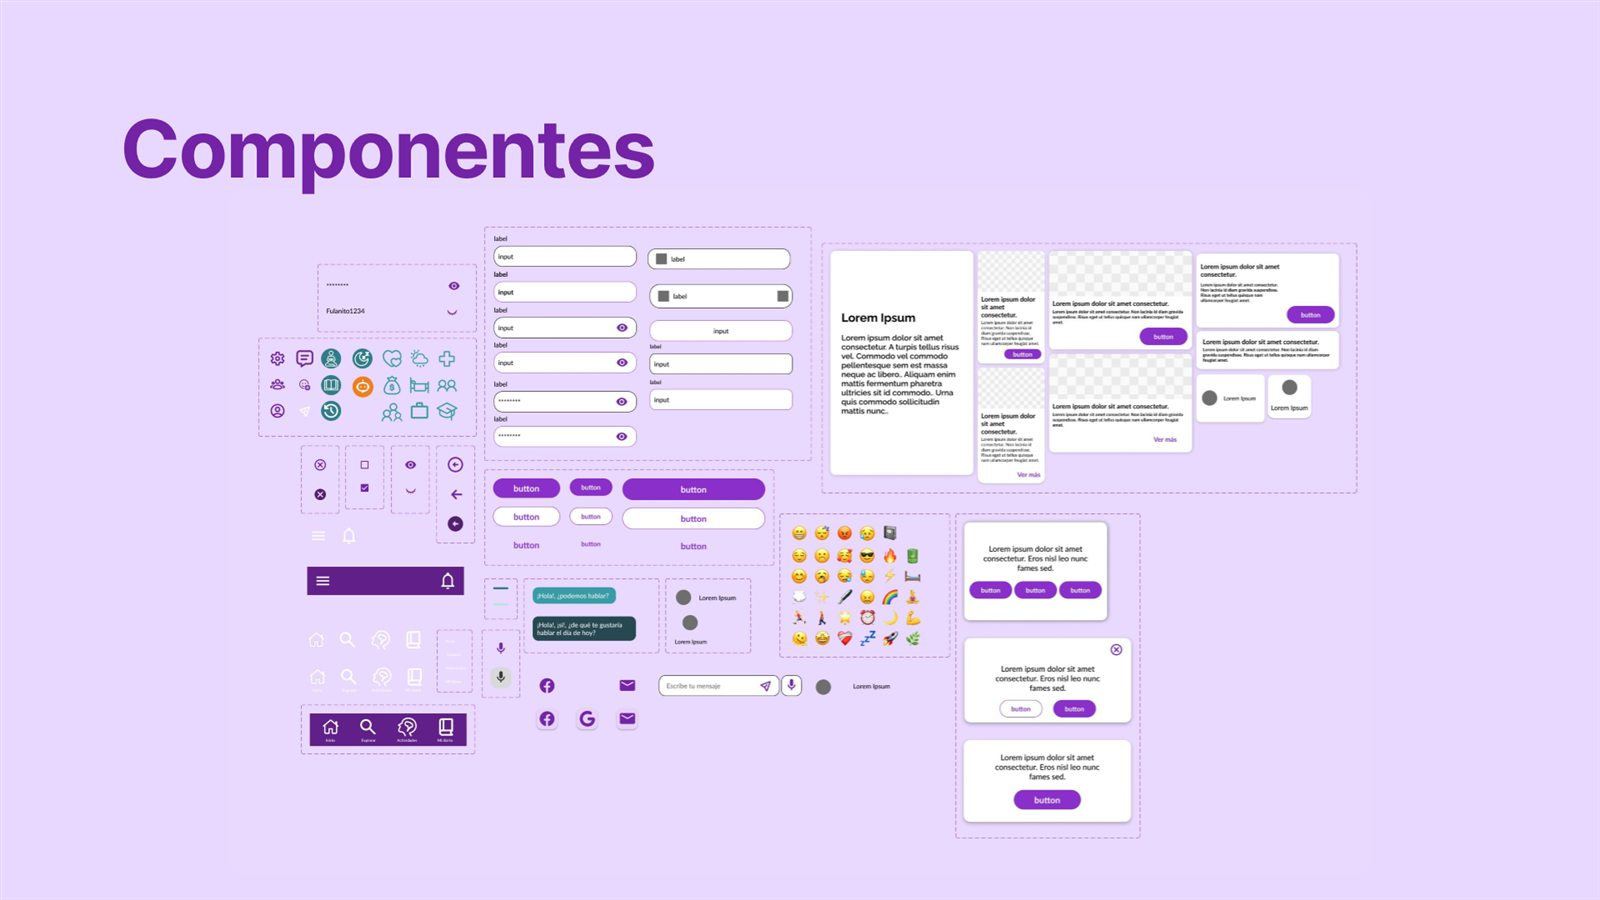
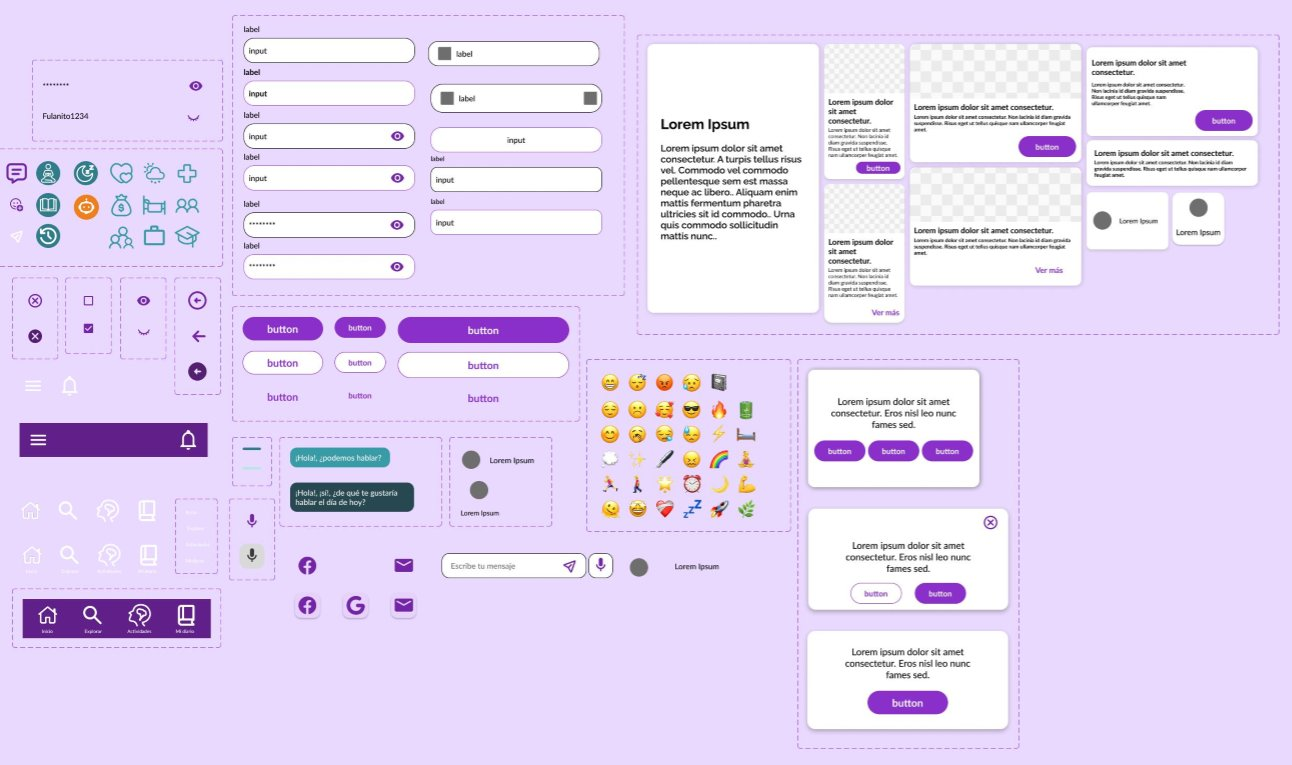
Calmi: consigna, recortes de slides y cierre con el prototipo
- Contexto: suma la consigna del curso antes del problema, el objetivo y la solución.
- Datos: "Proyecto académico" y "Plataforma: Aplicación móvil" en lugar de los entregables.
- Recorta 9 slides a su contenido visual, sin títulos de diapositiva.
- Task flow y user flow a todo el ancho; moodboard y test A/B centrados y más chicos.
- Cierre con el bloque "Recorré la app" y el botón "Probar el prototipo".

diff --git a/proyectos/calmi.html b/proyectos/calmi.html
@@ -84,11 +84,11 @@
 
             <dl class="case-facts">
               <div><dt class="mono">Rol</dt><dd>UX/UI Designer, con foco en UI y prototipado</dd></div>
-              <div><dt class="mono">Tipo</dt><dd>Proyecto académico individual</dd></div>
+              <div><dt class="mono">Tipo</dt><dd>Proyecto académico</dd></div>
               <div><dt class="mono">Curso</dt><dd>Prototipado · Coderhouse</dd></div>
               <div><dt class="mono">Año</dt><dd>2025</dd></div>
               <div><dt class="mono">Herramientas</dt><dd>Figma, Illustrator, IA de imágenes</dd></div>
-              <div><dt class="mono">Entregables</dt><dd>Persona, flujos, wireframes, guía de estilos, testeos y prototipo</dd></div>
+              <div><dt class="mono">Plataforma</dt><dd>Aplicación móvil</dd></div>
             </dl>
           </div>
         </header>
@@ -117,6 +117,10 @@
               <p class="case-section__num mono">01</p>
               <h2 class="case-section__title" id="t-contexto"><em>Contexto</em></h2>
               <p class="case-section__text">
+                <strong>La consigna.</strong>
+                El curso pedía diseñar desde cero un producto digital que resolviera un problema concreto y documentar cómo evolucionaba el prototipo, de baja a alta fidelidad, con testeos con usuarios y un sistema de diseño propio. Elegí hacer una app de acompañamiento emocional.
+              </p>
+              <p class="case-section__text">
                 <strong>El problema.</strong>
                 La falta de soporte emocional es una realidad para muchas personas. Sin espacios seguros para expresar lo que sienten, y con poco tiempo y recursos, aumentan la ansiedad y la depresión. A veces la terapia no es accesible por tiempo, distancia o costos.
               </p>
@@ -138,14 +142,14 @@
                 Un benchmark breve de otras apps me sirvió para definir el enfoque. A partir de ahí construí a Davina, la user persona: 31 años, maestra jardinera y estudiante de Bellas Artes. Su rutina intensa le genera estrés y no tiene tiempo ni acceso fácil a terapia; aunque su obra social ofrece psicólogos, el proceso es demasiado lento para ayudarla en el momento.
               </p>
               <figure class="case-media" data-reveal>
-                <img class="case-img" src="../assets/img/calmi/slide-persona.jpg" alt="User persona: Davina, con su perfil, objetivos, frustraciones, motivaciones y relación con la tecnología" loading="lazy" width="1600" height="900" />
+                <img class="case-img" src="../assets/img/calmi/slide-persona.jpg" alt="User persona: Davina, con su perfil, objetivos, frustraciones, motivaciones y relación con la tecnología" loading="lazy" width="1600" height="673" />
                 <figcaption class="annot">User persona</figcaption>
               </figure>
               <p class="case-section__text">
                 El storyboard cuenta cómo Davina, bloqueada en su taller, encuentra Calmi, completa un cuestionario, sigue un ejercicio de respiración y vuelve a su trabajo más tranquila. La foto de Davina y las ilustraciones del storyboard se generaron con IA.
               </p>
               <figure class="case-media" data-reveal>
-                <img class="case-img" src="../assets/img/calmi/slide-storyboard.jpg" alt="Storyboard en seis viñetas: Davina bloqueada, busca una app, hace un cuestionario, respira, vuelve a crear y explora la app" loading="lazy" width="1600" height="900" />
+                <img class="case-img" src="../assets/img/calmi/slide-storyboard.jpg" alt="Storyboard en seis viñetas: Davina bloqueada, busca una app, hace un cuestionario, respira, vuelve a crear y explora la app" loading="lazy" width="1600" height="782" />
                 <figcaption class="annot">Storyboard</figcaption>
               </figure>
             </section>
@@ -158,16 +162,16 @@
                 Separé las funciones imprescindibles del MVP (registro de emociones, chatbot, actividades y diario emocional) de las deseables, como la comunidad, el registro del sueño o una mascota virtual. Después ordené el contenido en una arquitectura de la información y definí los flujos del chatbot.
               </p>
               <figure class="case-media" data-reveal>
-                <img class="case-img" src="../assets/img/calmi/slide-mvp.jpg" alt="Definición del MVP: funciones imprescindibles y deseables" loading="lazy" width="1600" height="900" />
+                <img class="case-img" src="../assets/img/calmi/slide-mvp.jpg" alt="Definición del MVP: funciones imprescindibles y deseables" loading="lazy" width="1600" height="542" />
                 <figcaption class="annot">MVP</figcaption>
               </figure>
               <figure class="case-media" data-reveal>
-                <img class="case-img" src="../assets/img/calmi/slide-arquitectura.jpg" alt="Arquitectura de la información: el home y sus secciones, de notificaciones a comunidad" loading="lazy" width="1600" height="900" />
+                <img class="case-img" src="../assets/img/calmi/slide-arquitectura.jpg" alt="Arquitectura de la información: el home y sus secciones, de notificaciones a comunidad" loading="lazy" width="1600" height="768" />
                 <figcaption class="annot">Arquitectura de la información</figcaption>
               </figure>
-              <div class="media-grid media-grid--2" data-reveal data-reveal-stagger>
-                <figure><img class="case-img" src="../assets/img/calmi/slide-task-flow.jpg" alt="Task flow: abrir Calmi, elegir el chatbot, ver la introducción, iniciar una conversación y volver al inicio" loading="lazy" width="1600" height="900" /><figcaption class="annot">Task flow</figcaption></figure>
-                <figure><img class="case-img" src="../assets/img/calmi/slide-user-flow.jpg" alt="User flow del chatbot: introducción la primera vez, nueva conversación o historial para continuar una anterior" loading="lazy" width="1600" height="900" /><figcaption class="annot">User flow</figcaption></figure>
+              <div class="media-grid media-grid--1" data-reveal data-reveal-stagger>
+                <figure><img class="case-img" src="../assets/img/calmi/slide-task-flow.jpg" alt="Task flow: abrir Calmi, elegir el chatbot, ver la introducción, iniciar una conversación y volver al inicio" loading="lazy" width="1600" height="225" /><figcaption class="annot">Task flow</figcaption></figure>
+                <figure><img class="case-img" src="../assets/img/calmi/slide-user-flow.jpg" alt="User flow del chatbot: introducción la primera vez, nueva conversación o historial para continuar una anterior" loading="lazy" width="1600" height="605" /><figcaption class="annot">User flow</figcaption></figure>
               </div>
               <p class="case-section__text">
                 <a class="link-arrow" href="https://www.figma.com/board/s6pfCCezqD0FzfkHCigint/Calmi---Prototipo?node-id=0-1" target="_blank" rel="noopener noreferrer"><span class="link-arrow__label">Ver flujos y arquitectura en FigJam</span><span class="link-arrow__icon" aria-hidden="true">↗</span><span class="visually-hidden">(se abre en una pestaña nueva)</span></a>
@@ -197,8 +201,8 @@
               <p class="case-section__text">
                 El moodboard reúne imágenes que reflejan los valores de la marca: cuidado, ayuda y resiliencia. El violeta (primario) y el turquesa (secundario) transmiten tranquilidad y equilibrio, y el naranja (acento) aporta energía.
               </p>
-              <figure class="case-media" data-reveal>
-                <img class="case-img" src="../assets/img/calmi/slide-moodboard.jpg" alt="Moodboard de ilustraciones sobre salud mental y cuidado, con su paleta" loading="lazy" width="1600" height="900" />
+              <figure class="case-media" data-reveal style="max-width: 30rem; margin-inline: auto;">
+                <img class="case-img" src="../assets/img/calmi/slide-moodboard.jpg" alt="Moodboard de ilustraciones sobre salud mental y cuidado, con su paleta" loading="lazy" width="811" height="890" />
                 <figcaption class="annot">Universo visual</figcaption>
               </figure>
               <div class="ds" data-reveal data-reveal-stagger>
@@ -222,7 +226,7 @@
                 </div>
               </div>
               <figure class="case-media" data-reveal>
-                <img class="case-img" src="../assets/img/calmi/slide-componentes.jpg" alt="Componentes: campos, botones, íconos, burbujas de chat, emojis, cards, pop-ups y barra de navegación" loading="lazy" width="1600" height="900" />
+                <img class="case-img" src="../assets/img/calmi/slide-componentes.jpg" alt="Componentes: campos, botones, íconos, burbujas de chat, emojis, cards, pop-ups y barra de navegación" loading="lazy" width="1292" height="765" />
                 <figcaption class="annot">Componentes</figcaption>
               </figure>
             </section>
@@ -287,8 +291,8 @@
               <p class="case-section__text">
                 Rediseñé la pantalla de inicio de sesión y comparé las dos versiones con 6 usuarios, en las tareas de registro e inicio de sesión. Con la pantalla B, ningún usuario abandonó las tareas.
               </p>
-              <figure class="case-media" data-reveal>
-                <img class="case-img" src="../assets/img/calmi/slide-ab.jpg" alt="Pantalla A y pantalla B del inicio de sesión, lado a lado" loading="lazy" width="1600" height="900" />
+              <figure class="case-media" data-reveal style="max-width: 26rem; margin-inline: auto;">
+                <img class="case-img" src="../assets/img/calmi/slide-ab.jpg" alt="Pantalla A y pantalla B del inicio de sesión, lado a lado" loading="lazy" width="705" height="831" />
                 <figcaption class="annot">Pantalla A y pantalla B</figcaption>
               </figure>
               <div class="ds" data-reveal data-reveal-stagger>
@@ -320,8 +324,10 @@
               <p class="case-section__text">
                 Las pantallas se conectaron en un prototipo navegable en Figma.
               </p>
-              <div class="case-hero__actions">
-                <a class="btn btn--primary" href="https://www.figma.com/proto/y5x9FdAKSxh4SmFByRnJX3/CALMI-Prototipo---Coderhouse?node-id=955-13372&amp;p=f&amp;scaling=scale-down&amp;content-scaling=fixed&amp;page-id=474%3A1186" target="_blank" rel="noopener noreferrer">Abrir el prototipo en Figma <span class="btn__icon" aria-hidden="true">↗</span><span class="visually-hidden">(se abre en una pestaña nueva)</span></a>
+              <div class="proto-cta" data-reveal>
+                <p class="proto-cta__eyebrow mono">Prototipo interactivo · Figma</p>
+                <p class="proto-cta__title">Recorré la <em>app</em></p>
+                <a class="btn btn--primary" href="https://www.figma.com/proto/y5x9FdAKSxh4SmFByRnJX3/CALMI-Prototipo---Coderhouse?node-id=955-13372&amp;p=f&amp;scaling=scale-down&amp;content-scaling=fixed&amp;page-id=474%3A1186" target="_blank" rel="noopener noreferrer">Probar el prototipo <span class="btn__icon btn__icon--right" aria-hidden="true">↗</span><span class="visually-hidden">(se abre en una pestaña nueva)</span></a>
               </div>
             </section>
           </div>
